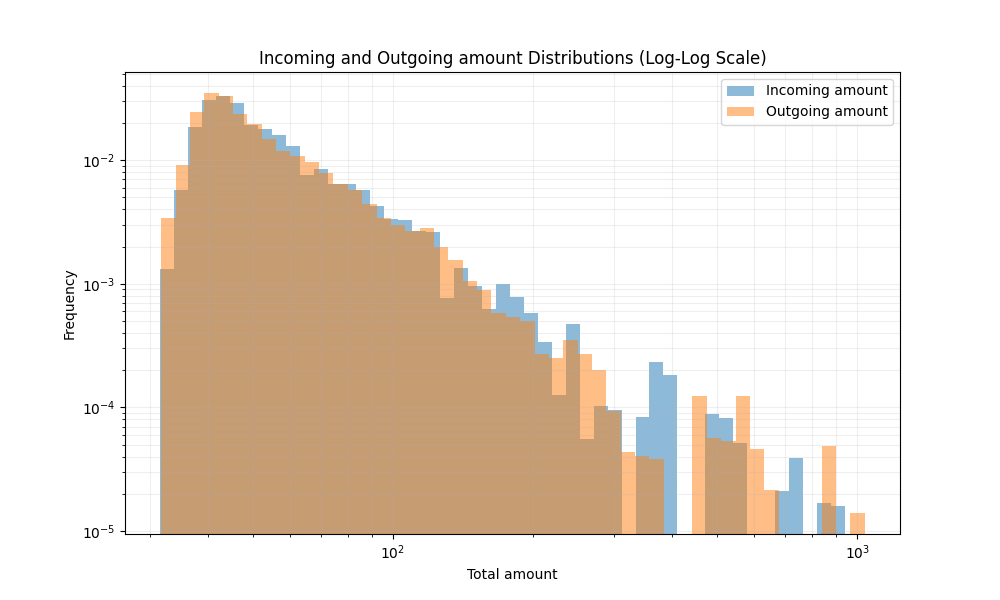
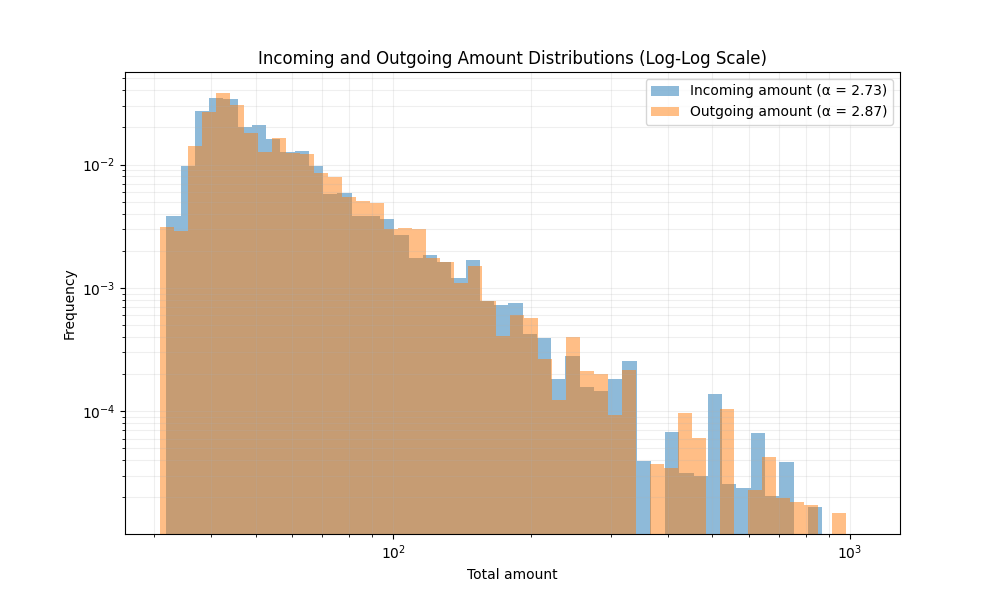
feat: update

diff --git a/ba_pns.py b/ba_pns.py
@@ -118,26 +118,33 @@ class PaymentNetworkSimulated:
         
         return node_amounts
     
-    def measure_alpha(self):
-        """Measure the alpha value of the in-degree and out-degree distributions."""
-        in_degrees = [degree for node, degree in self.G.in_degree()]
-        out_degrees = [degree for node, degree in self.G.out_degree()]
+    def measure_alpha(self, distribution):
+        """
+        Measure the alpha value of the given distribution.
         
-        results_in = powerlaw.Fit(in_degrees)
-        results_out = powerlaw.Fit(out_degrees)
+        Parameters:
+        distribution (list): A list of values representing the distribution to analyze
         
-        alpha_in = results_in.power_law.alpha
-        alpha_out = results_out.power_law.alpha
-        return alpha_in, alpha_out
+        Returns:
+        float: The alpha value of the power law fit
+        """
+        results = powerlaw.Fit(distribution)
+        return results.power_law.alpha
+        
 
     def plot_degree_distribution(self):
         """Plot the in-degree and out-degree distributions on a log-log scale."""
         in_degrees = [degree for node, degree in self.G.in_degree()]
         out_degrees = [degree for node, degree in self.G.out_degree()]
         
-        plt.figure()
-        plt.hist(in_degrees, bins=np.logspace(np.log10(1), np.log10(max(in_degrees)), num=50), density=True, alpha=0.5, label='In-degree')
-        plt.hist(out_degrees, bins=np.logspace(np.log10(1), np.log10(max(out_degrees)), num=50), density=True, alpha=0.5, label='Out-degree')
+        alpha_in = self.measure_alpha(in_degrees)
+        alpha_out = self.measure_alpha(out_degrees)
+        
+        plt.figure(figsize=(10, 6))
+        plt.hist(in_degrees, bins=np.logspace(np.log10(1), np.log10(max(in_degrees)), num=50), 
+                 density=True, alpha=0.5, label=f'In-degree (α = {alpha_in:.2f})')
+        plt.hist(out_degrees, bins=np.logspace(np.log10(1), np.log10(max(out_degrees)), num=50), 
+                 density=True, alpha=0.5, label=f'Out-degree (α = {alpha_out:.2f})')
         
         plt.xscale('log')
         plt.yscale('log')
@@ -145,7 +152,9 @@ class PaymentNetworkSimulated:
         plt.ylabel('Frequency')
         plt.title('In-degree and Out-degree Distributions (Log-Log Scale)')
         plt.legend()
+        plt.grid(True, which="both", ls="-", alpha=0.2)
         plt.savefig('degree_distribution.png')
+        plt.close()
 
     def plot_amount_distribution(self):
         """Plot the total incoming and outgoing amount distributions on a log-log scale."""
@@ -153,21 +162,21 @@ class PaymentNetworkSimulated:
         incoming_amounts = [cap[0] for cap in node_amounts.values()]
         outgoing_amounts = [cap[1] for cap in node_amounts.values()]
 
+        alpha_incoming = self.measure_alpha(incoming_amounts)
+        alpha_outgoing = self.measure_alpha(outgoing_amounts)
+
         plt.figure(figsize=(10, 6))
         
-        # Plot incoming amounts
         plt.hist(incoming_amounts, bins=np.logspace(np.log10(min(incoming_amounts)), np.log10(max(incoming_amounts)), num=50), 
-                 density=True, alpha=0.5, label='Incoming amount')
-        
-        # Plot outgoing amounts
+                 density=True, alpha=0.5, label=f'Incoming amount (α = {alpha_incoming:.2f})')
         plt.hist(outgoing_amounts, bins=np.logspace(np.log10(min(outgoing_amounts)), np.log10(max(outgoing_amounts)), num=50), 
-                 density=True, alpha=0.5, label='Outgoing amount')
+                 density=True, alpha=0.5, label=f'Outgoing amount (α = {alpha_outgoing:.2f})')
         
         plt.xscale('log')
         plt.yscale('log')
         plt.xlabel('Total amount')
         plt.ylabel('Frequency')
-        plt.title('Incoming and Outgoing amount Distributions (Log-Log Scale)')
+        plt.title('Incoming and Outgoing Amount Distributions (Log-Log Scale)')
         plt.legend()
         plt.grid(True, which="both", ls="-", alpha=0.2)
         plt.savefig('amount_distribution.png')

diff --git a/main.py b/main.py
@@ -1,8 +1,6 @@
-from ba_payment_network_simulation import PaymentNetworkSimulated
+from ba_pns import PaymentNetworkSimulated
 
 payment_network_graph = PaymentNetworkSimulated(n=1000, m_in=5, m_out=5, m0=5)
 payment_network_graph.generate()
-alpha = payment_network_graph.measure_alpha()
-print(f"Alpha: {alpha}")
 payment_network_graph.plot_degree_distribution()
 payment_network_graph.plot_amount_distribution()
